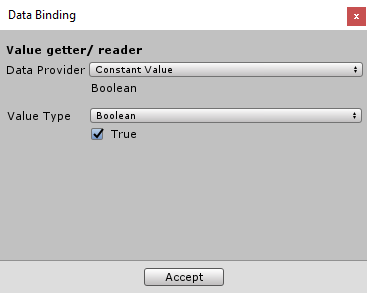
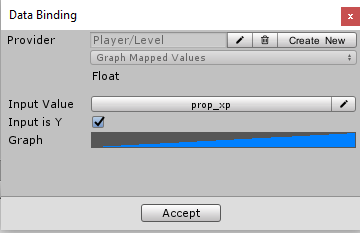
....

diff --git a/pages/blox/blox-databinding.md b/pages/blox/blox-databinding.md
@@ -16,6 +16,14 @@ You will normally interact with this system when another requires it. When you n
 
 ![](img/blox/26.png)
 
+Properties and settings which requires a bind will give you the option to select an existing data provider or to add/ edit one.
+
+Data Providers can be shared between binds. Any providers created can be selected from a list. Note that you can group and order data providers by using "/" as a 'path separator', for example 'Player/Level'.
+
+You can also choose to not add a name to the new provider but then it will not be available in the list of defined provides and be shared with data binds.
+
+![](img/blox/35.png)
+
 Blackboard
 ----------
 
